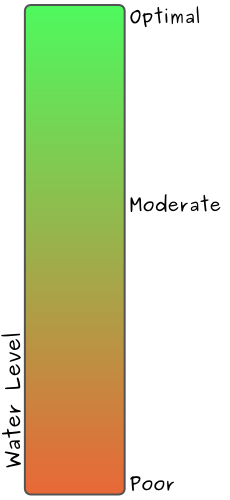
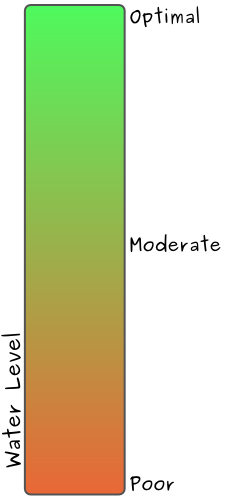
larger gauge

Changed region(s): [[0.5478, 0.45, 0.9739, 0.51], [0.5478, 0.39, 0.9739, 0.42]]

diff --git a/public/apps/experiment/large.html b/public/apps/experiment/large.html
@@ -84,7 +84,6 @@
 
         /*Gauges*/
 	#gauge-background {width:230px;height:200px; padding:10px; position:absolute; right:700px; top:450px; 
-		background-color: white;
 		background-image: url('gauge-water.png');
 		background-size: cover;
 		background-repeat: no-repeat;
@@ -95,13 +94,12 @@
 
         /*Gauges Large*/
 	#gauge-background-large {width:230px;height:500px; position:absolute; right:450px; top:100px;
-		background-color: white;
 		background-image: url('gauge-water-large.png');
 		background-size: cover;
 		background-repeat: no-repeat;
 		background-position: center center;  
 	}
-	#gauge-large {width:90px; height:500px; background-color:#428BCA; display:inline-block; position:absolute; bottom:10px; left:30px; border-radius:5px;}
+	#gauge-large {width:90px; height:480px; background-color:#428BCA; display:inline-block; position:absolute; bottom:10px; left:30px; border-radius:5px;}
 
 
 
@@ -267,9 +265,8 @@
                         pool_size = data.display_week_score.pool_size;
 			current_pool = data.display_week_score.current_pool;
 			barPercentage = (current_pool*100)/pool_size;
-			$('#gauge').css({"height":(barPercentage*200)/100+10+"px"});
-
-			$('#gauge-large').css({"height":(barPercentage*500)/100+10+"px"});
+			//$('#gauge').css({"height":(barPercentage*200)/100+10+"px"});
+			$('#gauge-large').css({"height":(barPercentage*480)/100+10+"px"});
 
 
 	
